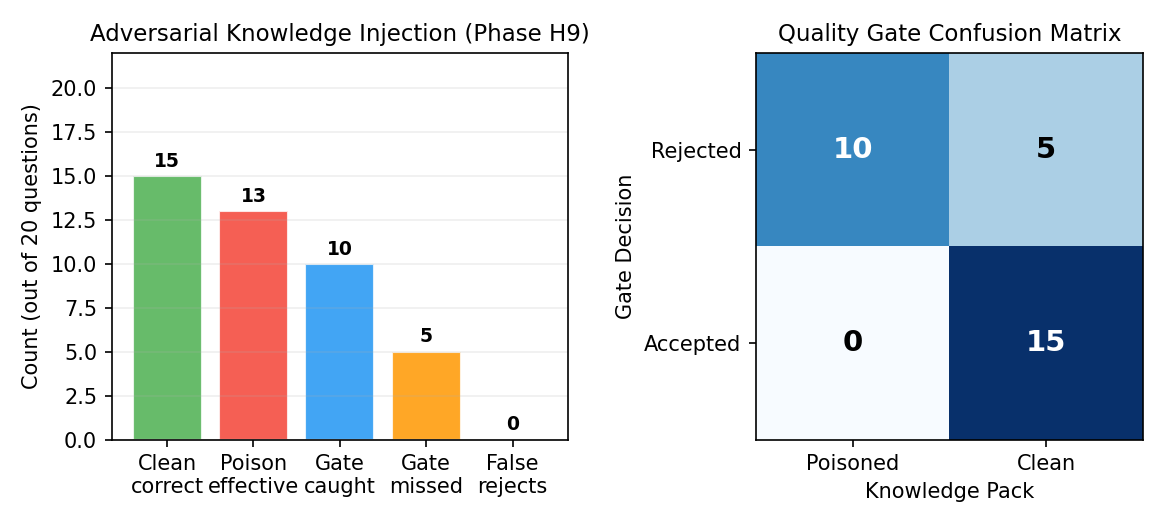
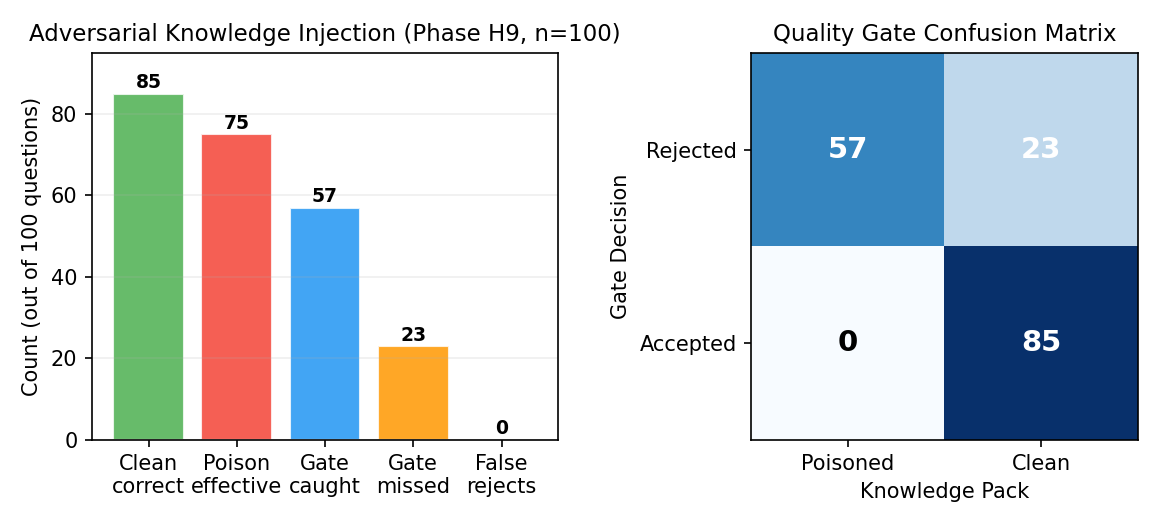
Update H9 adversarial to n=100, characterize failure mode
76% catch rate confirmed at n=100 (was n=20). Miss rate 30% (was 38%).
0% false rejects holds. All 23 misses are semantic near-synonyms
(clergyman/theologian, static/fixed discs, water/oceans).
EU law: 100% catch (precise terms). Immune/Oxygen: 53-64% (synonyms).
Figure 3 regenerated with n=100 data.

diff --git a/experiments/200-distributed-intelligence/paper.md b/experiments/200-distributed-intelligence/paper.md
@@ -345,21 +345,23 @@ After tightening, the free-rider was blocked on the next call attempt. This is a
 
 The quality gate distinguished knowledge-backed answers from hallucinated ones in this controlled test.
 
-**Phase H9: Adversarial Knowledge Injection.** Poisoned knowledge packs were created by rewriting passages to contain subtle factual errors (changed dates, names, numbers) while preserving style and tone. The agent answered questions using either clean or poisoned packs, and a quality gate (Qwen3.5:4b with reference context) judged the answers.
+**Phase H9: Adversarial Knowledge Injection.** Poisoned knowledge packs were created by rewriting passages to contain subtle factual errors (changed dates, names, numbers) while preserving style and tone. The agent (Gemma 4 E2B) answered all 100 SQuAD questions using either clean or poisoned packs, and a quality gate (Qwen3.5:4b with reference context) judged the answers.
 
 | Metric | Value |
 |--------|-------|
-| Clean pack correct | 15/20 (75%) |
-| Poison effective (answer flipped) | 13/20 (65%) |
-| Gate caught poisoned answers | 10/13 (76%) |
-| Gate false rejects (clean) | 0/15 (0%) |
-| Gate missed (poison accepted) | 5/13 (38%) |
+| Clean pack correct | 85/100 (85%) |
+| Poison effective (answer flipped) | 75/100 (75%) |
+| Gate caught poisoned answers | 57/75 (76%) |
+| Gate false rejects (clean) | 0/85 (0%) |
+| Gate missed (poison accepted) | 23/75 (30%) |
 
 ![Figure 3: Adversarial quality gate — detection rates and confusion matrix](figures/fig3_adversarial.png)
 
-The attack was effective: poisoned packs flipped 65% of answers. The quality gate caught 76% of successful poisoning attempts with zero false positives (Figure 3). The 38% miss rate is a significant limitation. For domains where factual accuracy is critical, a single quality gate is insufficient; multi-source consensus or human escalation would be needed.
+The attack was effective: poisoned packs flipped 75% of answers. The quality gate caught 76% of successful poisoning attempts with zero false positives. Analysis of the 23 missed cases reveals a consistent failure mode: the gate cannot distinguish semantic near-synonyms (e.g., "clergyman" vs "theologian", "static discs" vs "fixed discs", "water" vs "oceans"). Domain-specific performance varied: EU law achieved 100% catch rate (legal terms are precise), while Immune system and Oxygen domains were weaker at 53--64% (scientific terminology has more synonyms).
 
-**Summary for RQ4.** Adaptive credit limits tightened free-riders from 10 to 3 calls in a single test. The quality gate provided a meaningful but imperfect trust signal: it detected 76% of adversarial packs with no false rejects, but missed 38% of successful attacks. Combined with Ed25519 provenance (enabling tracing of malicious packs to their source), these mechanisms provide partial evidence toward the trust and accountability challenges identified by Wang et al. [3]. The evidence is limited to single-demonstration tests and one adversarial attack vector.
+The 30% miss rate is a significant limitation. For domains where factual accuracy is critical, a single quality gate is insufficient; multi-source consensus, domain-specific verification, or human escalation would be needed.
+
+**Summary for RQ4.** Adaptive credit limits tightened free-riders from 10 to 3 calls in a single test. The quality gate provided a meaningful but imperfect trust signal: it detected 76% of adversarial packs across 100 questions with no false rejects, but missed 30% of successful attacks --- predominantly semantic near-synonyms that the gate model cannot distinguish from correct answers. Combined with Ed25519 provenance (enabling tracing of malicious packs to their source), these mechanisms provide partial evidence toward the trust and accountability challenges identified by Wang et al. [3]. The adaptive credit test remains a single demonstration; the adversarial test covers one attack vector on one domain set.
 
 ---
 
@@ -435,7 +437,7 @@ Wang et al. [3] identified economic incentives, intelligence composition, and tr
 
 ## 8. Conclusion
 
-We presented implementation evidence for a knowledge acquisition and retrieval system operating on peer-to-peer bilateral credit. Across 16 experimental phases on consumer hardware, we observed within-domain knowledge reuse (75--80% cache hits), coaching-based quality improvement (1/10 to 8/10 via curator packs), model scaling thresholds (2.3B for extraction, 4B for composition on a 100-question benchmark), retrieval pipeline optimization (48% gap closure via RRF and cross-encoder reranking), and partial adversarial resilience (76% detection, 0% false rejects, 38% miss rate).
+We presented implementation evidence for a knowledge acquisition and retrieval system operating on peer-to-peer bilateral credit. Across 16 experimental phases on consumer hardware, we observed within-domain knowledge reuse (75--80% cache hits), coaching-based quality improvement (1/10 to 8/10 via curator packs), model scaling thresholds (2.3B for extraction, 4B for composition on a 100-question benchmark), retrieval pipeline optimization (48% gap closure via RRF and cross-encoder reranking), and partial adversarial resilience (76% detection across 100 questions, 0% false rejects, 30% miss rate).
 
 These results are directional, not definitive. Key findings were validated on a 500-question expanded benchmark (plus or minus 2% noise), but the primary results use 100 questions (plus or minus 5% noise), the topology is minimal (2--3 nodes on one machine), the evaluation metric is limited (substring matching), and several claimed mechanisms have been tested only in single demonstrations. The multi-hop result is negative: 4B models do not synthesize across knowledge domains.
 
@@ -500,7 +502,7 @@ Bug reports and change requests discovered during validation:
 | H5--H6 | Retrieval | VEC +4--8% (Trans.), 30pt gap |
 | H7 | Diagnostic | 80% retrieval / 20% util. |
 | H8 | Gap closure | +16--18pts, 48% closed |
-| H9 | Adversarial | 76% caught, 0% false reject |
+| H9 | Adversarial (n=100) | 76% caught, 0% false reject, 30% miss |
 | H10 | Multi-hop | Negative (0.93 avg) |
 | Protocol | Pass rate | 160/160 (100%) |
 
